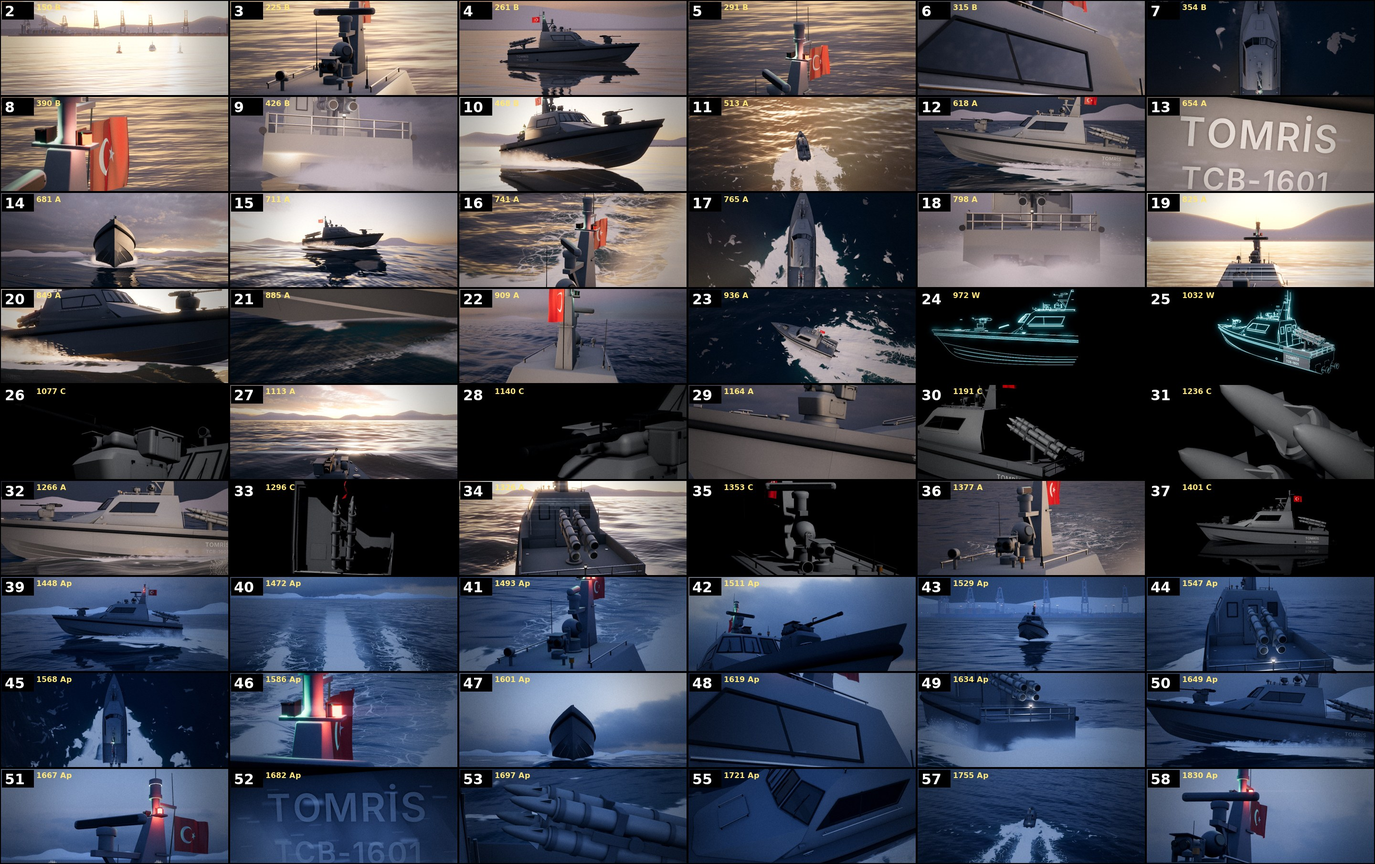
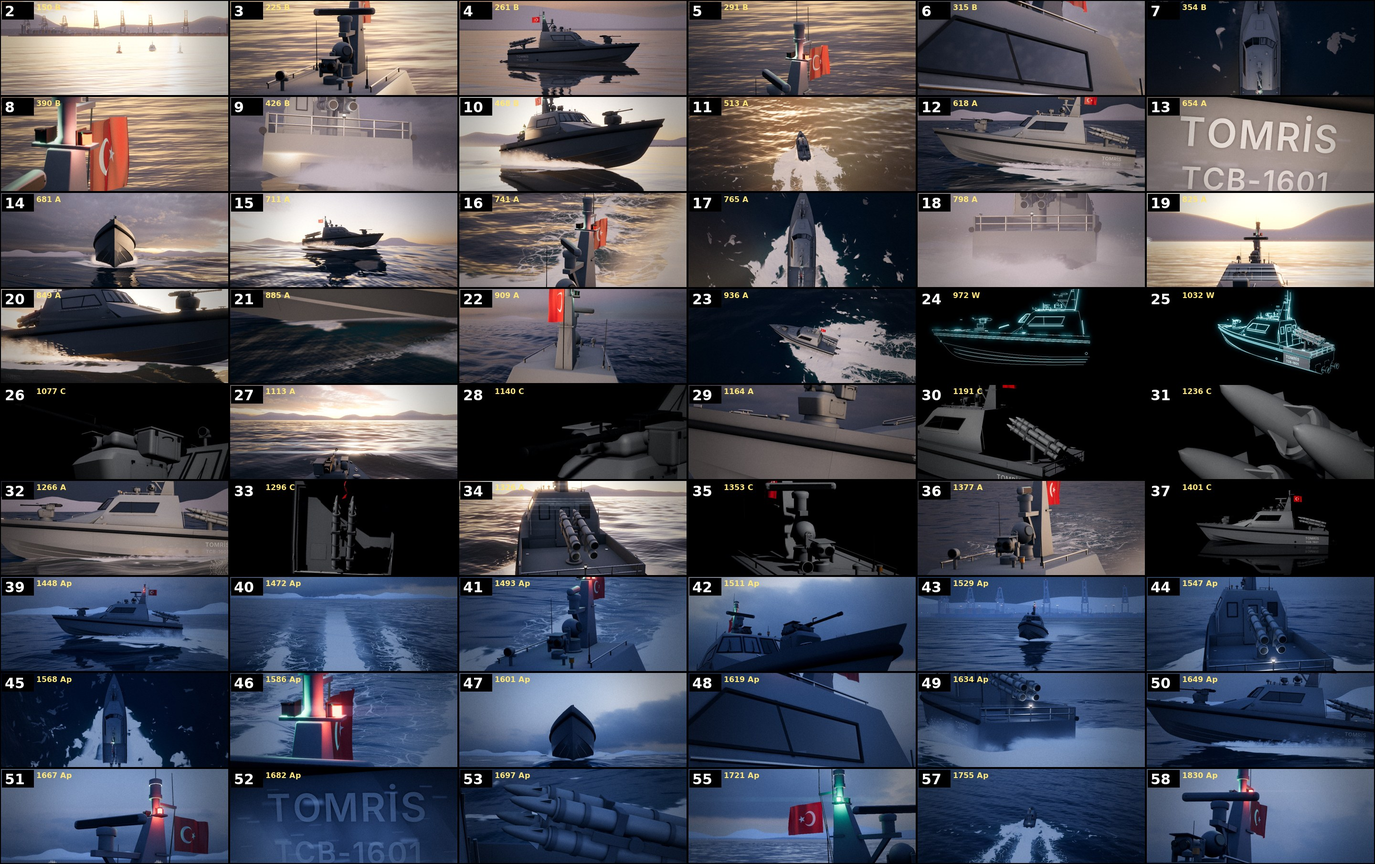
Kurgu: shots.json tek kaynak, güzellik planları, ses miksi, parça parça render hattı, RENDER.md
Claude-Session: https://claude.ai/code/session_019GDsCWtDXcjiUSwNpUphSP

Changed region(s): [[0.5, 0.8668, 0.6875, 1.0], [0.5625, 0.3405, 0.8125, 0.4643], [0.6562, 0.2167, 0.8125, 0.3096]]

diff --git a/tomris-film/RENDER.md b/tomris-film/RENDER.md
@@ -86,10 +86,10 @@ loses at most one chunk. The log is `chunks/c_kk.log` and the timings go to `chu
 | Preview still (`tools/shot.js`, sub 1, scale 0.5) | first ~20 s (compile), then ~4.5–6 s each; 54 shots in 5 min 24 s |
 | HyperFrames chunk `c_13`, 42 frames, SUB=1, full 1920×804 | 331 s wall: ~74 s startup (plan + reference background ~48 s + page/shader warm-up), 196 s capture (**4.7 s/frame**), ~60 s encode/finish |
 | HyperFrames 30 frames crossing a slice boundary (21.2–22.2 s), SUB=1 | 15 min wall (two sessions, heavy contention from another agent's GLB export: ~20 s/frame) |
-| Two chunks side by side (PAR=2), SUB=1 | PAR_RESULT |
+| Two chunks side by side (PAR=2), SUB=1 | two 30-frame spans in parallel: capture 7.0 and 8.3 s/frame each, i.e. ~4.1 s/frame combined vs 4.7 alone; 60 frames in 6 min 53 s wall vs ~9 min serial (≈1.3×). It helps a little, mainly by overlapping the fixed per-chunk startup/encode; SwiftShader already uses ~1.5–2 cores per render. `PAR=2` is safe (separate temp dirs and outputs); more than 2 is not worth it on 4 cores |
 | Estimate for the full 3D range, SUB=8 | 1740 frames × 8 × ~4.5 s ≈ 17 h + 14 × ~2 min overhead, unless the water/grade workstream's sub-frame speed-up lands (they measured ~7 s per sub-frame earlier). With SUB=4 it is about half that |
-| Edit + mix + mux + contact sheet (`--edit-only`) | EDIT_TIME |
-| Loudness of mix.wav | LOUDNESS |
+| Edit + mix + mux + contact sheet (`--edit-only`) | 94 s with `FILL=preview` (13 chunks synthesised from stills + 1 real HyperFrames chunk); output verified: H.264 High, yuv420p, 1920×1080, 30/1, 2100 frames, 70.000 s, AAC LC 48 kHz, 17 MB |
+| Loudness of mix.wav | −14.2 LUFS integrated (ebur128; loudnorm reads −14.1), true peak −2.0 dBTP, LRA 21 LU (VO only, no music yet); in the muxed AAC: −14.1 LUFS, −2.0 dBFS |
 
 ## On an Apple-silicon Mac (GPU)
 
@@ -102,8 +102,7 @@ HF_ARGS="--browser-gpu" SUB=8 PAR=1 bash tomris-film/build.sh
 
 With a real GPU, WebGL is one to two orders of magnitude faster than SwiftShader, and the capture and encode overheads
 take over. Run with `PAR=1` first. If `chunks/timings.txt` shows that the GPU is mostly idle, try `PAR=2`. `SUB=16`
-becomes affordable there. The scripts use only bash, ffmpeg, ffprobe, awk, python3 and node, and the GNU-only flags
-they used have been avoided, but `stat -c` in the size print falls back silently on macOS (the size line is cosmetic).
+becomes affordable there. The scripts use only bash, ffmpeg, ffprobe, awk, xargs, python3 (Pillow) and node; no GNU-only flags.
 
 ## Music and SFX
 
